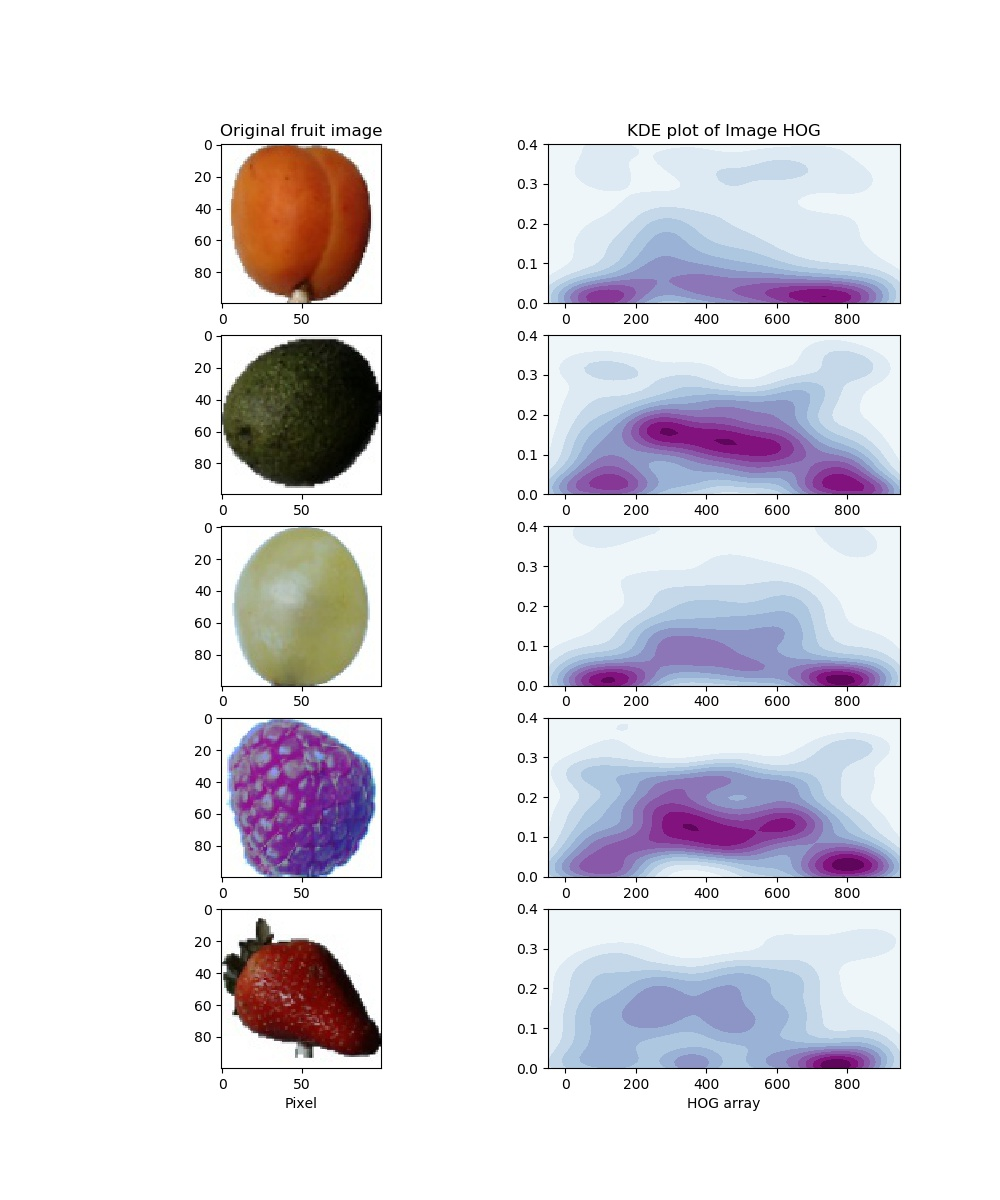
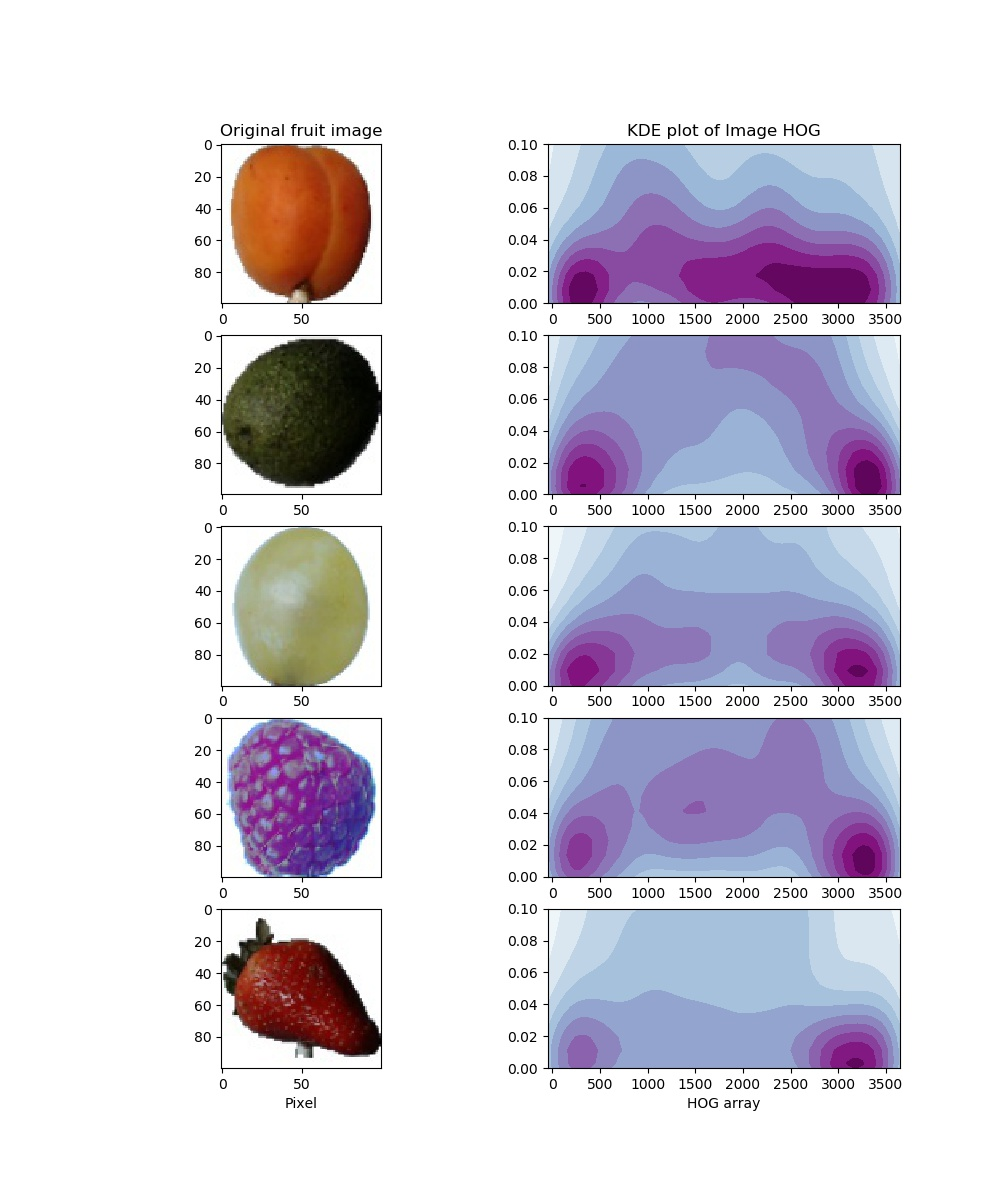
changed kde plot

Changed region(s): [[0.496, 0.1233, 0.899, 0.925]]

diff --git a/_posts/2018-05-02-IRCHOGSVM.md b/_posts/2018-05-02-IRCHOGSVM.md
@@ -121,13 +121,13 @@ t5 = (cv2.imread("t5.jpg"))
 winsize = (100, 100)
 
 #moving cells over the image, subset of image
-cellsize = (20, 20)
+cellsize = (10, 10)
 
-#block to normalize vectors, to handle illumination, usually 2 x cell size
-blocksize = (20, 20)
+#block to normalize vectors, to handle illumination
+blocksize = (10, 10)
 
-#overlap with neighboring cells. Usually 50% of blocksize
-blockstride = (10, 10)
+#overlap with neighboring cells, usually 50% of blocksize
+blockstride = (5, 5)
 
 #number of bins of histogram, usually 9
 nbins = 9
@@ -170,7 +170,7 @@ for i, fruit in zip(range(len(image_list)), image_list):
 
             sns.kdeplot(np.arange(len(x)),x, cmap="BuPu", shade=True, ax=axes[i][j])
             axes[i][j].set_xlim(-50, len(fruit_hog)+50)
-            axes[i][j].set_ylim(0, 0.4)
+            axes[i][j].set_ylim(0, 0.1)
 
 #labelling plots and axes
 axes[0][0].set_title("Original fruit image")
@@ -186,6 +186,11 @@ How does it look like? Here we go...
 <img src="{{ site.url }}{{ site.baseurl }}/images/IRCHOGSVM/KDE_HOG1.jpg"
 alt="Edges transformed">
 
+This is a very colorful way to visualize it but perhaps not the most intuitive one.
+Image gradients consist of vectors and their length and direction are indication for
+the magnitude of changes. Maybe, we should also try to show it as a series of vectors.
+Similiar to the previous KDE plot, I am building up a matplotlib figure with
+multiple axis.
 
 ## Dancing Fruits
 
